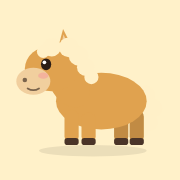
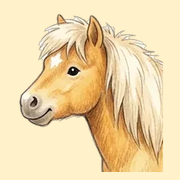
Add files via upload

diff --git a/app.js b/app.js
@@ -16,18 +16,18 @@ function shuffle(r,arr){const a=arr.slice();for(let i=a.length-1;i>0;i--){const 
 
 /* ---------- データ ---------- */
 const SIGNS=[
- {id:"aries",name:"おひつじ座",sym:"♈",from:[3,21],to:[4,19], pony:{name:"ルビー",coat:"#b8643c",mane:"#5a2a14",muzzle:"#e8b48f",kind:"栗毛"}},
- {id:"taurus",name:"おうし座",sym:"♉",from:[4,20],to:[5,20], pony:{name:"モカ",coat:"#8a5a3c",mane:"#3a2214",muzzle:"#cfa587",kind:"鹿毛"}},
- {id:"gemini",name:"ふたご座",sym:"♊",from:[5,21],to:[6,21], pony:{name:"ミント",coat:"#f2e6d8",mane:"#9fd8c4",muzzle:"#f7d6cf",kind:"白毛"}},
- {id:"cancer",name:"かに座",sym:"♋",from:[6,22],to:[7,22], pony:{name:"ミルク",coat:"#fbf3ea",mane:"#e8c9a8",muzzle:"#f6d5cf",kind:"月毛"}},
- {id:"leo",name:"しし座",sym:"♌",from:[7,23],to:[8,22], pony:{name:"レオ",coat:"#e0a24f",mane:"#fff0c8",muzzle:"#f1cf9e",kind:"パロミノ"}},
- {id:"virgo",name:"おとめ座",sym:"♍",from:[8,23],to:[9,22], pony:{name:"アイリス",coat:"#cdbfb6",mane:"#8a7a72",muzzle:"#e9d6cd",kind:"芦毛"}},
- {id:"libra",name:"てんびん座",sym:"♎",from:[9,23],to:[10,23], pony:{name:"ベル",coat:"#d6a98a",mane:"#f4e1cf",muzzle:"#ecc9b2",kind:"河原毛"}},
- {id:"scorpio",name:"さそり座",sym:"♏",from:[10,24],to:[11,22], pony:{name:"ノワール",coat:"#3a2e2c",mane:"#151010",muzzle:"#6a5550",kind:"青毛"}},
- {id:"sagittarius",name:"いて座",sym:"♐",from:[11,23],to:[12,21], pony:{name:"ソラ",coat:"#9a6a48",mane:"#f0e3d4",muzzle:"#d3ad90",kind:"栃栗毛"}},
- {id:"capricorn",name:"やぎ座",sym:"♑",from:[12,22],to:[1,19], pony:{name:"ココア",coat:"#6b4a3a",mane:"#2b1b14",muzzle:"#b08a76",kind:"黒鹿毛"}},
- {id:"aquarius",name:"みずがめ座",sym:"♒",from:[1,20],to:[2,18], pony:{name:"ルナ",coat:"#b9b8c4",mane:"#f4f1fa",muzzle:"#ddd5df",kind:"葦毛"}},
- {id:"pisces",name:"うお座",sym:"♓",from:[2,19],to:[3,20], pony:{name:"マシュ",coat:"#f3d9cf",mane:"#c9a6d8",muzzle:"#f8e2dc",kind:"佐目毛"}},
+ {id:"aries",name:"おひつじ座",sym:"♈",from:[3,21],to:[4,19], pony:{name:"ルビー",coat:"#c96f43",mane:"#6b2d14",muzzle:"#f0c09c",kind:"栗毛",mane_style:"fluffy",mark:"blaze",trait:"元気いっぱいの先頭ランナー。走りだしたら止まらない"}},
+ {id:"taurus",name:"おうし座",sym:"♉",from:[4,20],to:[5,20], pony:{name:"モカ",coat:"#93603f",mane:"#2e1a10",muzzle:"#d9b297",kind:"鹿毛",mane_style:"bangs",mark:"socks",trait:"おいしい草を見つける天才。マイペースな食いしんぼう"}},
+ {id:"gemini",name:"ふたご座",sym:"♊",from:[5,21],to:[6,21], pony:{name:"ミント",coat:"#f7f0e7",mane:"#86d3bb",muzzle:"#fbdcd4",kind:"白毛",mane_style:"curly",mark:"none",trait:"好奇心旺盛でおしゃべり。新しいものに目がない"}},
+ {id:"cancer",name:"かに座",sym:"♋",from:[6,22],to:[7,22], pony:{name:"ミルク",coat:"#fbefdc",mane:"#efc195",muzzle:"#f8d8cc",kind:"月毛",mane_style:"tuft",mark:"star",trait:"みんなのお母さん役。寄りそうのが得意"}},
+ {id:"leo",name:"しし座",sym:"♌",from:[7,23],to:[8,22], pony:{name:"レオ",coat:"#e8a94f",mane:"#fff1c4",muzzle:"#f6d4a4",kind:"パロミノ",mane_style:"fluffy",mark:"star",trait:"自慢のたてがみが輝くリーダー。目立つのが大好き"}},
+ {id:"virgo",name:"おとめ座",sym:"♍",from:[8,23],to:[9,22], pony:{name:"アイリス",coat:"#cfc6c3",mane:"#7f706c",muzzle:"#ecdcd5",kind:"連銭葦毛",mane_style:"bangs",mark:"dapple",trait:"きれい好きのしっかり者。毛並みはいつもピカピカ"}},
+ {id:"libra",name:"てんびん座",sym:"♎",from:[9,23],to:[10,23], pony:{name:"ベル",coat:"#dcb08c",mane:"#fbeedd",muzzle:"#f2d2bc",kind:"河原毛",mane_style:"curly",mark:"socks",trait:"おしゃれで社交的。ケンカの仲裁もおまかせ"}},
+ {id:"scorpio",name:"さそり座",sym:"♏",from:[10,24],to:[11,22], pony:{name:"ノワール",coat:"#3d3230",mane:"#151010",muzzle:"#76625c",kind:"青毛",mane_style:"tuft",mark:"star",dark:true,trait:"クールに見えて実は甘えんぼう。一度なついたら一途"}},
+ {id:"sagittarius",name:"いて座",sym:"♐",from:[11,23],to:[12,21], pony:{name:"ソラ",coat:"#a06b45",mane:"#f4e6d6",muzzle:"#ddb79a",kind:"ピント",mane_style:"fluffy",mark:"pinto",trait:"冒険好きの旅ポニー。知らない道ほどわくわくする"}},
+ {id:"capricorn",name:"やぎ座",sym:"♑",from:[12,22],to:[1,19], pony:{name:"ココア",coat:"#6e4b3a",mane:"#2a1a13",muzzle:"#bb9480",kind:"黒鹿毛",mane_style:"bangs",mark:"blaze",dark:true,trait:"こつこつ努力家。毎朝いちばんに起きる"}},
+ {id:"aquarius",name:"みずがめ座",sym:"♒",from:[1,20],to:[2,18], pony:{name:"ルナ",coat:"#c3c3d0",mane:"#f6f4fc",muzzle:"#e2dbe4",kind:"アパルーサ",mane_style:"curly",mark:"spots",trait:"ちょっと不思議な発明家。星を見るのが趣味"}},
+ {id:"pisces",name:"うお座",sym:"♓",from:[2,19],to:[3,20], pony:{name:"マシュ",coat:"#f6dfd5",mane:"#c39fdc",muzzle:"#fbe6df",kind:"佐目毛",mane_style:"tuft",mark:"none",trait:"夢見がちなやさしい子。泣いている子をほうっておけない"}},
 ];
 
 const MSG={
@@ -68,31 +68,8 @@ const COLORS=[["ミルクティー","#d9b99b"],["にんじんオレンジ","#f08
 const ITEMS=["にんじん柄のもの","角砂糖","蹄鉄モチーフのアクセサリー","ブラシ","ふわふわのマフラー","リボン","りんご","手帳","温かいお茶","ハンドクリーム","ポケットティッシュ","お気に入りのペン","麦わら色の小物","鈴のついたキーホルダー","チェック柄のハンカチ","はちみつ","星のシール","丸いクッキー","青いノート","スニーカー"];
 const PLACES=["公園","カフェ","本屋","駅のホーム","パン屋","川沿いの道","図書館","花屋","コンビニ","ベランダ","雑貨屋","自分の部屋"];
 
-/* ---------- ポニーSVG（オリジナル） ---------- */
-function ponySVG(p, opt={}){
-  const hoof="#4a3428", eye="#2b1d16";
-  const flip=opt.flip?' transform="translate(120 0) scale(-1 1)"':'';
-  return `<svg viewBox="0 0 120 100" xmlns="http://www.w3.org/2000/svg" role="img" aria-label="ミニチュアポニーの${p.name}">
-<g${flip}>
- <ellipse cx="62" cy="93" rx="38" ry="4" fill="#000" opacity=".08"/>
- <g fill="${p.mane}"><circle cx="99" cy="54" r="7"/><circle cx="104" cy="63" r="7"/><circle cx="102" cy="73" r="6"/><circle cx="97" cy="80" r="4"/></g>
- <g fill="${p.coat}" style="filter:brightness(.86)"><rect x="77" y="66" width="10" height="22" rx="5"/><rect x="88" y="64" width="10" height="24" rx="5"/></g>
- <g fill="${hoof}"><rect x="77" y="84" width="10" height="5" rx="2"/><rect x="88" y="84" width="10" height="5" rx="2"/></g>
- <ellipse cx="68" cy="58" rx="32" ry="20" fill="${p.coat}"/>
- <g fill="${p.coat}"><rect x="42" y="64" width="10" height="24" rx="5"/><rect x="54" y="66" width="10" height="22" rx="5"/></g>
- <g fill="${hoof}"><rect x="42" y="84" width="10" height="5" rx="2"/><rect x="54" y="84" width="10" height="5" rx="2"/></g>
- <ellipse cx="45" cy="45" rx="13" ry="19" transform="rotate(-32 45 45)" fill="${p.coat}"/>
- <path d="M37 22 L41 7 L48 21 Z" fill="${p.coat}"/><path d="M39.5 19 L41.3 11 L45 19 Z" fill="${p.muzzle}"/>
- <ellipse cx="33" cy="35" rx="19" ry="16" fill="${p.coat}"/>
- <ellipse cx="20" cy="44" rx="12" ry="9.5" fill="${p.muzzle}"/>
- <circle cx="14" cy="43" r="1.6" fill="${eye}" opacity=".6"/>
- <path d="M16 49 Q20 51.5 24 49" stroke="${eye}" stroke-width="1.3" fill="none" stroke-linecap="round" opacity=".6"/>
- <ellipse cx="29" cy="32" rx="3.6" ry="4.2" fill="${eye}"/><circle cx="27.8" cy="30.6" r="1.3" fill="#fff"/>
- <ellipse cx="27" cy="40" rx="3.6" ry="2.2" fill="#f49a9a" opacity=".55"/>
- <g fill="${p.mane}"><circle cx="45" cy="20" r="7"/><circle cx="52" cy="26" r="7"/><circle cx="57" cy="34" r="6.2"/><circle cx="61" cy="41" r="5"/><circle cx="33" cy="20" r="6.5"/><circle cx="27" cy="23" r="4.5"/></g>
- ${opt.star?'<path d="M100 18 l2.4 5 5.4.6-4 3.7 1.1 5.3-4.9-2.7-4.9 2.7 1.1-5.3-4-3.7 5.4-.6z" fill="#f6c35b"/>':''}
-</g></svg>`;
-}
+/* ポニーのイラスト（img/星座id.webp） */
+const ponyImg=(s,cls="")=>`<img class="pimg ${cls}" src="img/${s.id}.webp" alt="ミニチュアポニーの${s.pony.name}" width="480" height="384" loading="lazy" decoding="async">`;
 
 /* ---------- 日付（日本時間） ---------- */
 const jstToday=()=>new Date().toLocaleDateString("sv-SE",{timeZone:"Asia/Tokyo"});
@@ -144,13 +121,13 @@ function render(){
   $("nextDay").disabled=current>=today;
   $("rankTitle").textContent=(current===today?"今日":fmt(current).replace(/^\d+年/,""))+"の12星座ランキング";
   const dp=data.dayPony.pony;
-  $("dayPony").innerHTML=`<div class="pv">${ponySVG(dp,{star:true})}</div>
+  $("dayPony").innerHTML=`<div class="pv">${ponyImg(data.dayPony)}</div>
    <div><span class="tag">${current===today?"今日":"この日"}の当番ポニー</span>
-   <h2>${dp.name}（${dp.kind}）</h2><p>「${pick(rng("dp:"+current),PONY_TALK)}」</p></div>`;
+   <h2>${dp.name}（${dp.kind}）</h2><p class="trait">${dp.trait}</p><p>「${pick(rng("dp:"+current),PONY_TALK)}」</p></div>`;
   $("ranking").innerHTML=data.results.map(x=>`<li class="rank-item${x.sign.id===mySign?" me":""}">
    <button data-id="${x.sign.id}" aria-label="${x.rank}位 ${x.sign.name}の詳細を見る">
     <span class="rk">${x.rank}<small>位</small></span>
-    <span class="pv">${ponySVG(x.sign.pony,{star:x.rank===1})}</span>
+    <span class="pv">${ponyImg(x.sign)}</span>
     <span><span class="sign"><span class="sym">${x.sign.sym}</span>${x.sign.name}${x.sign.id===mySign?'<span class="me-badge">あなた</span>':""}</span>
     <span class="one">${x.msg.split("。")[0]}。</span></span>
     <span class="total">${stars(x.total)}</span>
@@ -163,7 +140,7 @@ function openDetail(id){
   const p=x.sign.pony;
   const shareText=`${fmt(current)}の${x.sign.name}は${x.rank}位！ラッキーアイテムは「${x.item}」🐴 #ちびポニ占い`;
   const url=location.origin+location.pathname+(current===today?"":"?d="+current);
-  $("detailBody").innerHTML=`<div class="d-head"><div class="pv">${ponySVG(p,{star:x.rank===1})}</div>
+  $("detailBody").innerHTML=`<div class="d-head"><div class="pv">${ponyImg(x.sign)}</div>
    <div><p class="d-rank">${x.rank}位 / 12</p><h3 id="dTitle">${x.sign.sym} ${x.sign.name}</h3>
    <p class="pname">担当：${p.name}（${p.kind}）</p>${stars(x.total)}</div></div>
    <div class="d-msg"><p>${x.msg}${x.rescue?`<br><b>おまじない：</b>${x.rescue}`:""}</p></div>
@@ -187,12 +164,15 @@ $("birthday").addEventListener("change",e=>{const v=e.target.value;if(!v)return;
   const [,m,d]=v.split("-").map(Number);const s=signFromDate(m,d);if(s)openDetail(s.id);});
 function sync(){history.replaceState(null,"",current===today?location.pathname:"?d="+current);render();}
 
-$("heroPony").innerHTML=ponySVG(SIGNS[4].pony,{star:true});
+const top1=fortune(today).results[0].sign;
+$("heroPony").innerHTML=ponyImg(top1).replace('loading="lazy"','fetchpriority="high"')+`<span class="hero-badge">今日の1位　${top1.pony.name}</span>`;
+$("gallery").innerHTML=SIGNS.map((s,i)=>`<li><div class="pv">${ponyImg(s)}</div>
+  <b>${s.pony.name}</b><span class="gk">${s.sym}${s.name}・${s.pony.kind}</span><span class="gt">${s.pony.trait}</span></li>`).join("");
 $("year").textContent=today.slice(0,4);
 render();
 
 /* 日付が変わったら自動で更新（開きっぱなし対策） */
 setInterval(()=>{const t=jstToday();if(t!==today)location.href=location.pathname;},60000);
 
-window.__pony={fortune,signFromDate,ponySVG,SIGNS};
+window.__pony={fortune,signFromDate,SIGNS};
 })();

diff --git a/style.css b/style.css
@@ -29,12 +29,15 @@ button{font:inherit;color:inherit}
 
 /* hero */
 .hero{text-align:center;padding:24px 16px 8px}
-.hero-pony{width:150px;margin:0 auto;animation:bob 2.4s ease-in-out infinite}
-.hero-pony svg{width:100%;height:auto;display:block}
+.hero-pony{width:min(260px,70vw);margin:0 auto;position:relative}
+.hero-pony .pimg{animation:bob 3s ease-in-out infinite}
+.hero-badge{display:inline-block;margin-top:-4px;font-family:"Klee One",serif;font-size:.85rem;background:var(--card);border:1.5px dashed var(--accent);color:var(--accent);border-radius:99px;padding:1px 12px}
 @keyframes bob{50%{transform:translateY(-5px)}}
-@media (prefers-reduced-motion: reduce){.hero-pony{animation:none}}
+@media (prefers-reduced-motion: reduce){.hero-pony .pimg{animation:none}}
 .eyebrow{margin:4px 0 0;color:var(--accent);font-weight:700;font-size:.85rem;letter-spacing:.1em}
-h1{margin:0;font-size:clamp(2rem,8vw,2.8rem);font-weight:900;letter-spacing:.04em}
+h1{margin:0;font-family:"Klee One",serif;font-weight:600;font-size:clamp(2.2rem,9vw,3rem);letter-spacing:.06em}
+h2,.section-title,.d-head h3,.gallery b{font-family:"Klee One",serif;font-weight:600}
+.pimg{display:block;width:100%;height:auto}
 .datebar{display:flex;align-items:center;justify-content:center;gap:12px;margin-top:6px}
 .date{margin:0;font-weight:700;font-size:1.05rem;min-width:11em}
 .nav{width:36px;height:36px;border-radius:50%;border:2px solid var(--line);background:var(--card);
@@ -51,8 +54,7 @@ h1{margin:0;font-size:clamp(2rem,8vw,2.8rem);font-weight:900;letter-spacing:.04e
 .hint{margin:8px 0 0;font-size:.8rem;color:var(--ink2)}
 
 .daypony{display:flex;gap:14px;align-items:center;background:linear-gradient(135deg,var(--card),var(--bg2))}
-.daypony .pv{flex:0 0 96px}
-.daypony .pv svg{width:100%;height:auto}
+.daypony .pv{flex:0 0 120px}
 .daypony h2{margin:0}
 .daypony p{margin:4px 0 0;font-size:.92rem}
 .tag{display:inline-block;font-size:.72rem;font-weight:700;color:#fff;background:var(--accent);
@@ -63,25 +65,26 @@ h1{margin:0;font-size:clamp(2rem,8vw,2.8rem);font-weight:900;letter-spacing:.04e
 /* ranking */
 .ranking{list-style:none;margin:0 0 24px;padding:0;display:grid;gap:10px}
 .rank-item button{
-  width:100%;display:grid;grid-template-columns:48px 64px 1fr auto;align-items:center;gap:10px;
+  width:100%;display:grid;grid-template-columns:44px 80px 1fr auto;align-items:center;gap:10px;
   background:var(--card);border:2px solid transparent;border-radius:18px;padding:8px 14px 8px 8px;
   text-align:left;cursor:pointer;box-shadow:var(--shadow);transition:transform .15s}
 .rank-item button:hover{transform:translateY(-2px)}
 .rank-item.me button{border-color:var(--accent2);background:var(--me)}
 .rk{font-size:1.5rem;font-weight:900;text-align:center;color:var(--ink2)}
 .rk small{font-size:.7rem}
+.rk{white-space:nowrap;font-size:1.35rem}
 .rank-item:nth-child(1) .rk{color:#e0a400}
 .rank-item:nth-child(2) .rk{color:#9aa5b1}
 .rank-item:nth-child(3) .rk{color:#c58350}
-.rank-item .pv svg{width:64px;height:auto;display:block}
+.rank-item .pv{width:80px}
 .sign{font-weight:900;font-size:1.05rem}
 .sign .sym{color:var(--accent);margin-right:2px}
 .one{font-size:.8rem;color:var(--ink2);display:block;line-height:1.45}
 .total{font-size:.9rem;color:var(--star);white-space:nowrap;letter-spacing:-1px}
 .me-badge{font-size:.65rem;background:var(--accent2);color:#5a3a00;border-radius:99px;padding:0 7px;margin-left:6px;vertical-align:2px}
 @media (max-width:420px){
-  .rank-item button{grid-template-columns:38px 52px 1fr;padding-right:10px}
-  .rank-item .pv svg{width:52px}
+  .rank-item button{grid-template-columns:42px 66px 1fr;padding-right:10px}
+  .rank-item .pv{width:66px}
   .total{grid-column:3;font-size:.8rem}
 }
 
@@ -93,8 +96,7 @@ dialog::backdrop{background:rgba(60,35,20,.45)}
 .close{position:absolute;top:10px;right:12px;width:36px;height:36px;border-radius:50%;
   border:none;background:var(--bg2);font-size:1.3rem;cursor:pointer}
 .d-head{display:flex;gap:12px;align-items:center}
-.d-head .pv{flex:0 0 110px}
-.d-head .pv svg{width:100%;height:auto}
+.d-head .pv{flex:0 0 140px}
 .d-rank{font-weight:900;color:var(--accent);margin:0}
 .d-head h3{margin:0;font-size:1.4rem}
 .d-head .pname{margin:0;font-size:.8rem;color:var(--ink2)}
@@ -113,5 +115,13 @@ dialog::backdrop{background:rgba(60,35,20,.45)}
 .share{display:block;width:100%;margin-top:16px;padding:12px;border:none;border-radius:14px;
   background:var(--ink);color:var(--bg);font-weight:700;cursor:pointer;text-align:center;text-decoration:none}
 
+.trait{font-size:.8rem!important;color:var(--ink2);margin:0!important}
+.gal-hint{margin:-4px 4px 10px}
+.gallery{list-style:none;margin:0 0 24px;padding:0;display:grid;grid-template-columns:repeat(auto-fill,minmax(150px,1fr));gap:10px}
+.gallery li{background:var(--card);border-radius:18px;padding:10px 12px 12px;box-shadow:var(--shadow);text-align:center;display:flex;flex-direction:column}
+.gallery .pv{max-width:170px;margin:0 auto}
+.gallery b{font-size:1rem}
+.gk{font-size:.72rem;color:var(--accent);font-weight:700}
+.gt{font-size:.75rem;color:var(--ink2);line-height:1.5;margin-top:2px}
 footer{text-align:center;font-size:.75rem;color:var(--ink2);padding:16px 16px 32px}
 footer p{margin:2px 0}

diff --git a/index.html b/index.html
@@ -6,18 +6,18 @@
 <title>ちびポニ占い｜ミニチュアポニーの毎日12星座ランキング</title>
 <meta name="description" content="ミニチュアポニーたちが毎朝お届けする、12星座の今日の運勢ランキング。恋愛・仕事・金運・健康運と、ラッキーカラー・ラッキーアイテムも。">
 <meta name="theme-color" content="#fff4e6">
-<link rel="icon" href="favicon.svg" type="image/svg+xml">
+<link rel="icon" href="favicon.png" type="image/png">
 <link rel="apple-touch-icon" href="apple-touch-icon.png">
 <!-- OGP（公開URLが決まったら og:url と og:image を絶対URLに書き換えてください） -->
 <meta property="og:type" content="website">
 <meta property="og:title" content="ちびポニ占い｜今日の12星座ランキング">
 <meta property="og:description" content="ミニチュアポニーたちが毎朝お届けする、12星座の今日の運勢。">
-<meta property="og:image" content="https://ponynova.github.io/pony-uranai/ogp.png">
-<meta property="og:url" content="https://ponynova.github.io/pony-uranai/">
+<meta property="og:image" content="https://YOUR-NAME.github.io/pony-uranai/ogp.png">
+<meta property="og:url" content="https://YOUR-NAME.github.io/pony-uranai/">
 <meta name="twitter:card" content="summary_large_image">
 <link rel="preconnect" href="https://fonts.googleapis.com">
 <link rel="preconnect" href="https://fonts.gstatic.com" crossorigin>
-<link href="https://fonts.googleapis.com/css2?family=Zen+Maru+Gothic:wght@500;700;900&display=swap" rel="stylesheet">
+<link href="https://fonts.googleapis.com/css2?family=Klee+One:wght@600&family=Zen+Maru+Gothic:wght@500;700;900&display=swap" rel="stylesheet">
 <link rel="stylesheet" href="style.css">
 </head>
 <body>
@@ -48,6 +48,12 @@
   <section aria-labelledby="rankTitle">
     <h2 id="rankTitle" class="section-title">今日の12星座ランキング</h2>
     <ol class="ranking" id="ranking"></ol>
+  </section>
+
+  <section aria-labelledby="galTitle">
+    <h2 id="galTitle" class="section-title">ポニーたちの紹介</h2>
+    <p class="hint gal-hint">12星座それぞれに担当のポニーがいます。みんな色鉛筆で描かれた、ちょっとずんぐりの仲よしです。</p>
+    <ul class="gallery" id="gallery"></ul>
   </section>
 </main>
 

diff --git a/README.md b/README.md
@@ -13,9 +13,10 @@
 |---|---|
 | index.html | ページ本体 |
 | style.css | デザイン（ダークモード対応） |
-| app.js | 占いの生成ロジック・ポニーのイラスト |
+| app.js | 占いの生成ロジック |
+| img/ | ポニー12頭のイラスト（Geminiで生成、背景を透過したWebP。ファイル名は星座のID） |
 | ogp.png | SNSでシェアされたときの画像 |
-| favicon.svg / apple-touch-icon.png | アイコン |
+| favicon.png / apple-touch-icon.png | アイコン |
 
 ## GitHub Pages で公開する手順（約5分）
 1. https://github.com にログインし、右上「+」→「New repository」。
@@ -31,7 +32,8 @@
 ## カスタマイズのしかた（app.js）
 - `MSG`：運勢メッセージ。top＝1〜3位、mid＝4〜8位、low＝9〜12位。**各グループの文を増やすほど、毎日のバリエーションが増えます**（mid は最低5個、low は最低4個必要）。
 - `ITEMS` / `COLORS` / `PLACES` / `PONY_TALK`：ラッキーアイテムなどの候補。自由に追加OK。
-- `SIGNS` の `pony`：各星座の担当ポニーの名前・毛色（coat）・たてがみ色（mane）。
+- `SIGNS` の `pony`：各星座の担当ポニーの名前・毛色・性格。
+- イラストを差し替えるときは `img/` の同じ名前のファイルを上書きします（横480px前後、背景透過のWebPかPNG推奨）。
 
 ## 公開後のおすすめ
 - **独自ドメイン**：Settings → Pages → Custom domain で設定できます（ドメイン代のみ）。
